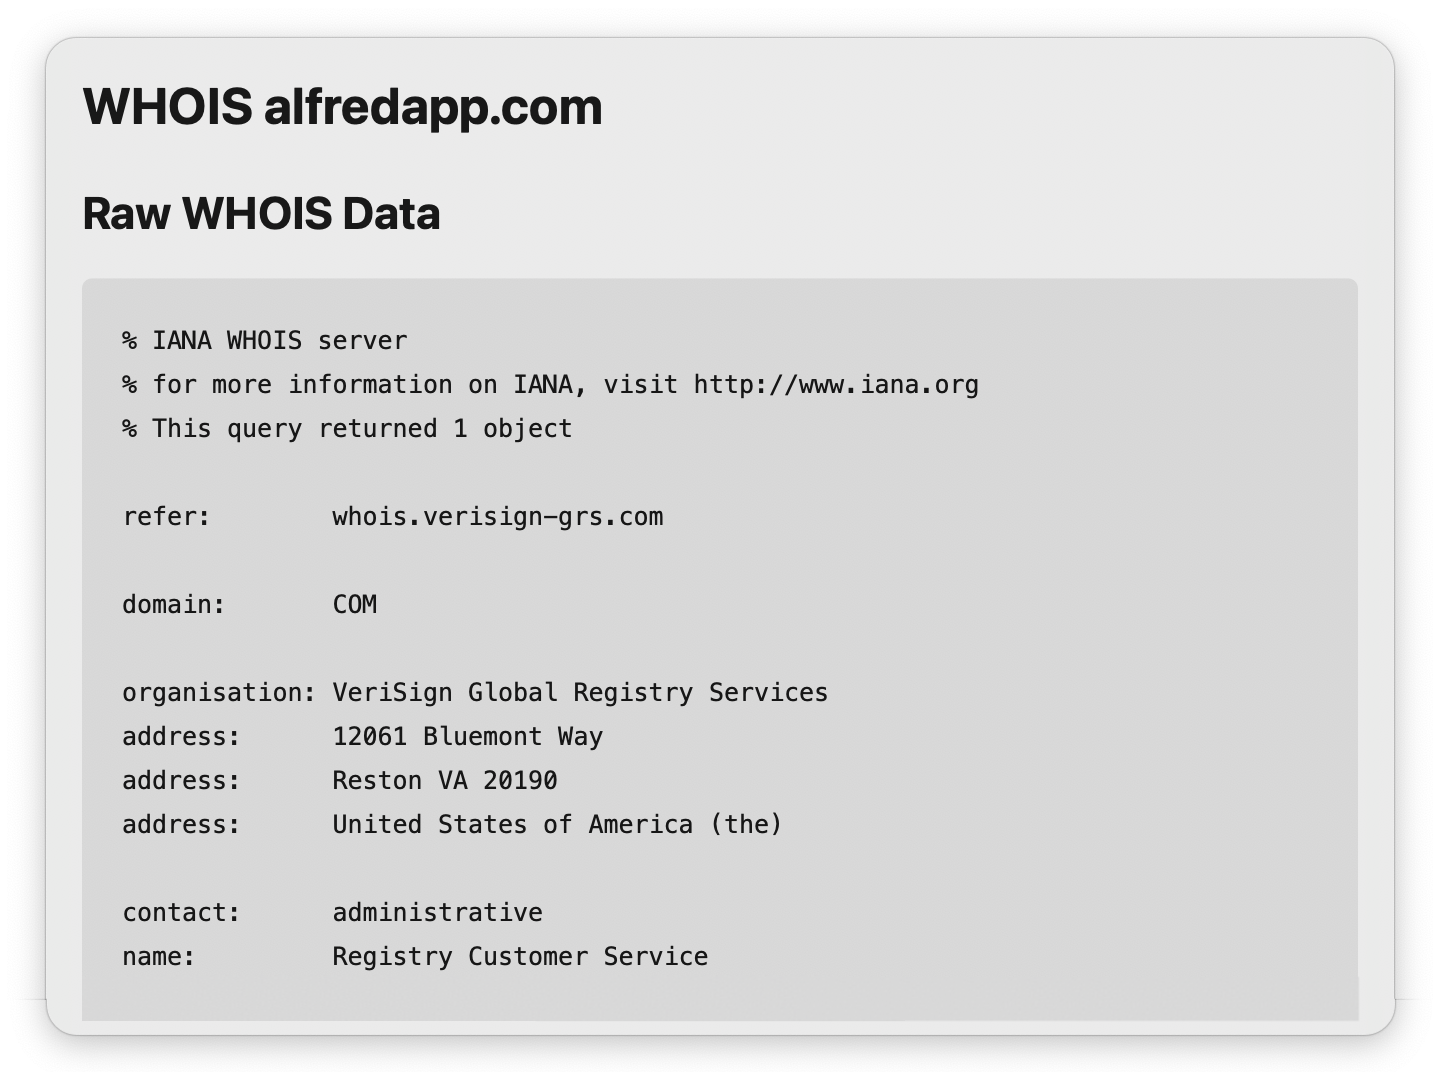
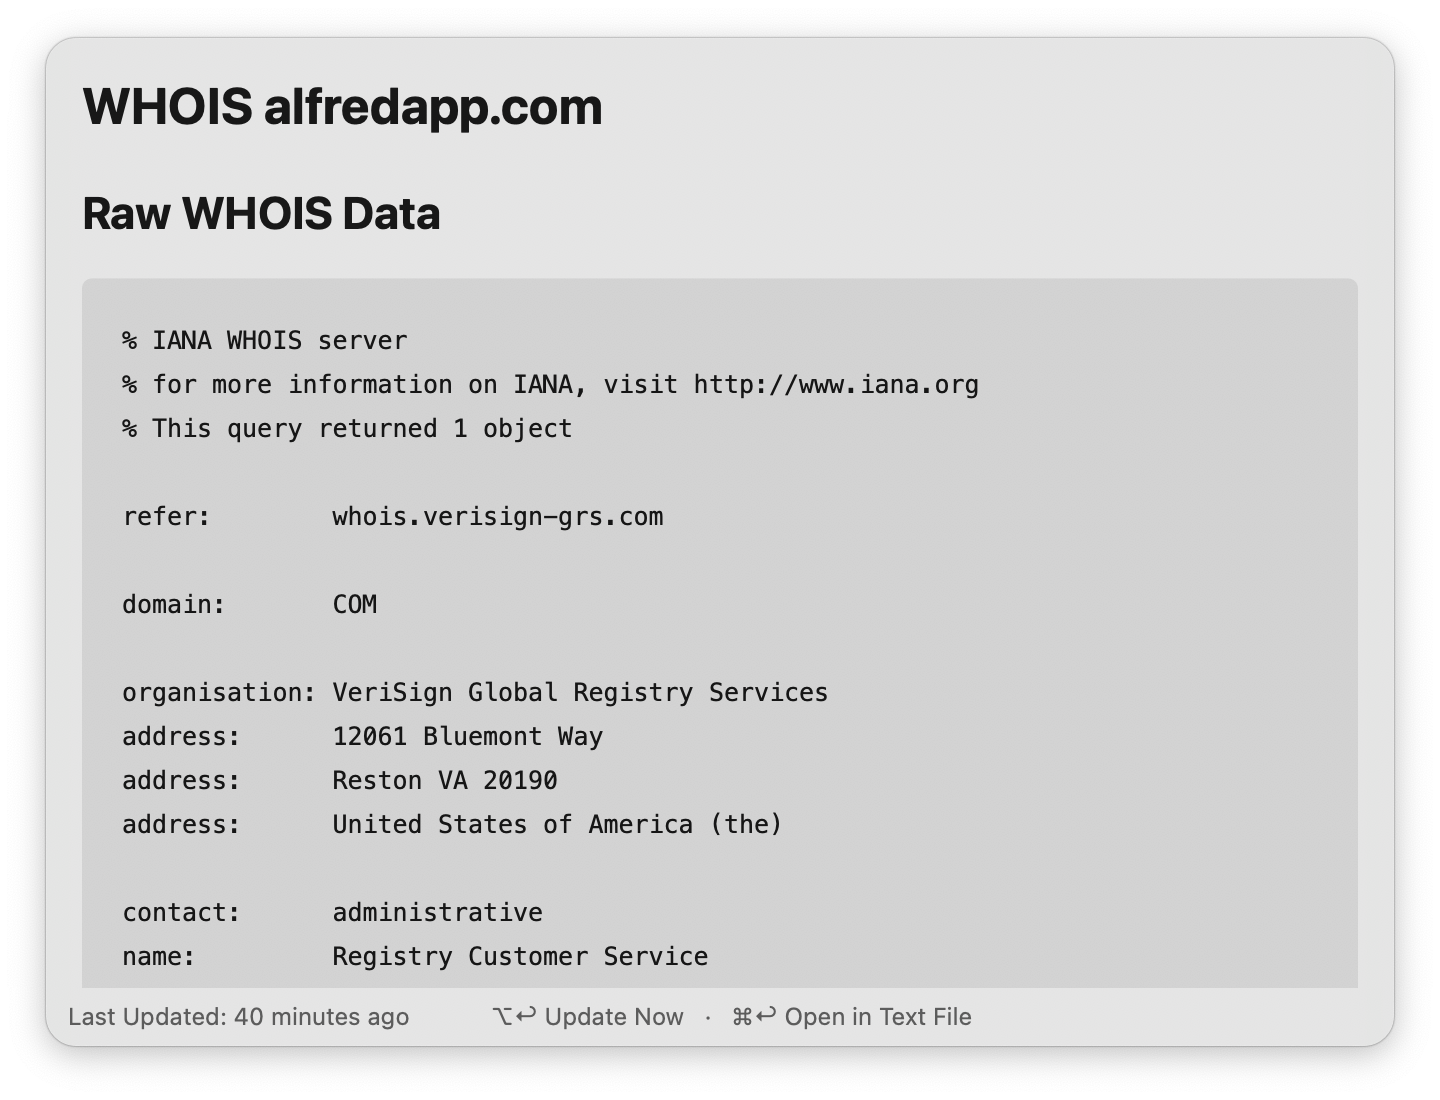
Update documentation

diff --git a/README.md b/README.md
@@ -6,19 +6,26 @@ Perform a WHOIS lookup in Alfred
 
 ## Usage
 
-Perform a [WHOIS](https://en.wikipedia.org/wiki/WHOIS) lookup using the `whois` keyword. Type the domain or IP address you would like to query.
+Perform a [WHOIS](https://en.wikipedia.org/wiki/WHOIS) lookup using the `whois` keyword. Type the domain, IP address, or IP range you would like to query.
 
 ![Using the whois keyword](Workflow/images/about/keyword.png)
 
 * <kbd>↩</kbd> View WHOIS data in Alfred's [Text View](https://www.alfredapp.com/help/workflows/user-interface/text/)
 * <kbd>⌘</kbd><kbd>↩</kbd> View raw WHOIS data in a text file
 
-The [Text View](https://www.alfredapp.com/help/workflows/user-interface/text/) will try to summarize important information at the top, then display the raw, unmodified data at the bottom. You can choose which information you'd like summarized in the [Workflow’s Configuration](https://www.alfredapp.com/help/workflows/user-configuration/).
+Autocomplete previous lookups by pressing tab or selecting from the search suggestions. This can be toggled in the [Workflow’s Configuration](https://www.alfredapp.com/help/workflows/user-configuration/). By default, the first suggestion will be tab-completed.
+
+![Using autocomplete](Workflow/images/about/autocomplete.png)
+
+The [Text View](https://www.alfredapp.com/help/workflows/user-interface/text/) can summarize important information above the raw WHOIS data and is [customizable](https://www.alfredapp.com/help/workflows/user-configuration/).
 
 ![Querying alfredapp.com with summary](Workflow/images/about/summaryData.png)
 
 ![Querying alfredapp.com without summary](Workflow/images/about/rawData.png)
 
-Configure the [Hotkey](https://www.alfredapp.com/help/workflows/triggers/hotkey/) as a shortcut to perform a WHOIS lookup. Use the [Universal Action](https://www.alfredapp.com/help/features/universal-actions/) to query URLs from Alfred’s [Clipboard History](https://www.alfredapp.com/help/features/clipboard/) or selected text.
+* <kbd>⌥</kbd><kbd>↩</kbd> Refresh WHOIS data (Lookups are cached for an hour)
+* <kbd>⌘</kbd><kbd>↩</kbd> Open raw WHOIS data in a text file
+
+Configure the [Hotkey](https://www.alfredapp.com/help/workflows/triggers/hotkey/) as a shortcut to perform a WHOIS lookup. Use the [Universal Action](https://www.alfredapp.com/help/features/universal-actions/) to query URLs from selected text or Alfred’s [Clipboard History](https://www.alfredapp.com/help/features/clipboard/).
 
 ![Using the Universal Action](Workflow/images/about/universalAction.png)
